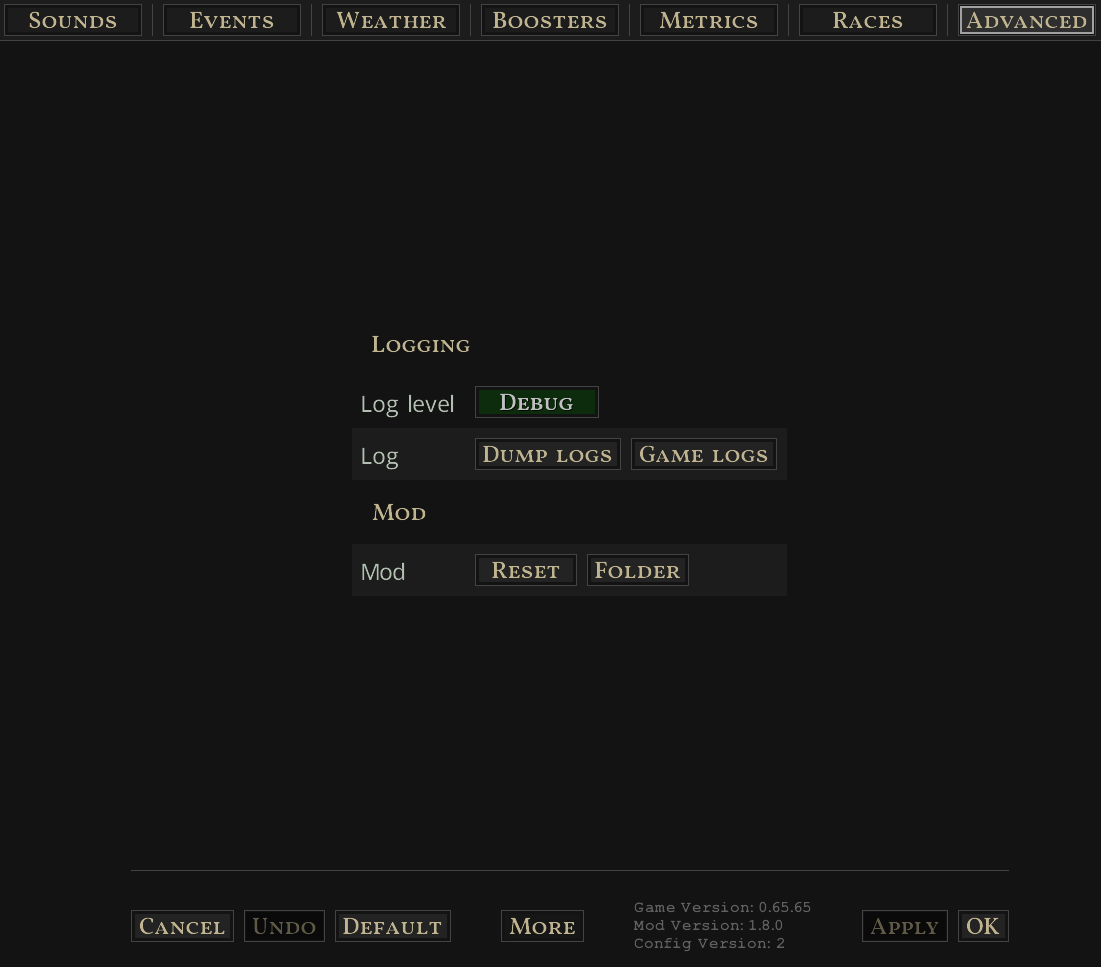
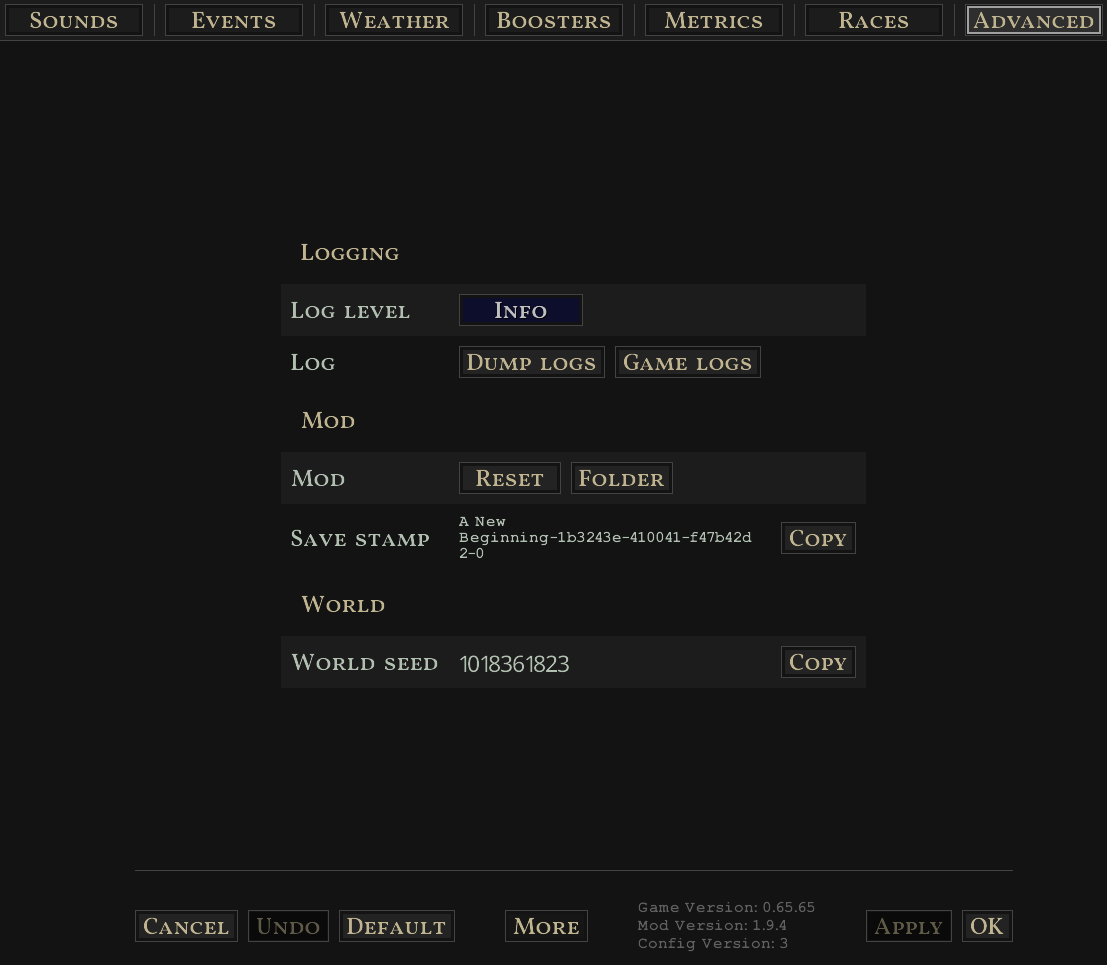
update advanced screenshot; fix ConcurrentModificationException in ConfigMerger; version bump to 1.9.5

diff --git a/src/main/java/com/github/argon/sos/moreoptions/config/ConfigMerger.java b/src/main/java/com/github/argon/sos/moreoptions/config/ConfigMerger.java
@@ -6,6 +6,7 @@ import lombok.AccessLevel;
 import lombok.NoArgsConstructor;
 import org.jetbrains.annotations.Nullable;
 
+import java.util.HashSet;
 import java.util.Map;
 import java.util.Set;
 
@@ -204,11 +205,14 @@ public class ConfigMerger {
             return;
         }
 
+        Set<K> toRemove = new HashSet<>();
         target.forEach((key, value) -> {
             if (!source.containsKey(key)) {
-                target.remove(key);
+                toRemove.add(key);
             }
         });
+
+        toRemove.forEach(target::remove);
     }
 
     public static <K, V> void addMissing(Map<K, V> target, @Nullable Map<K, V> source) {
